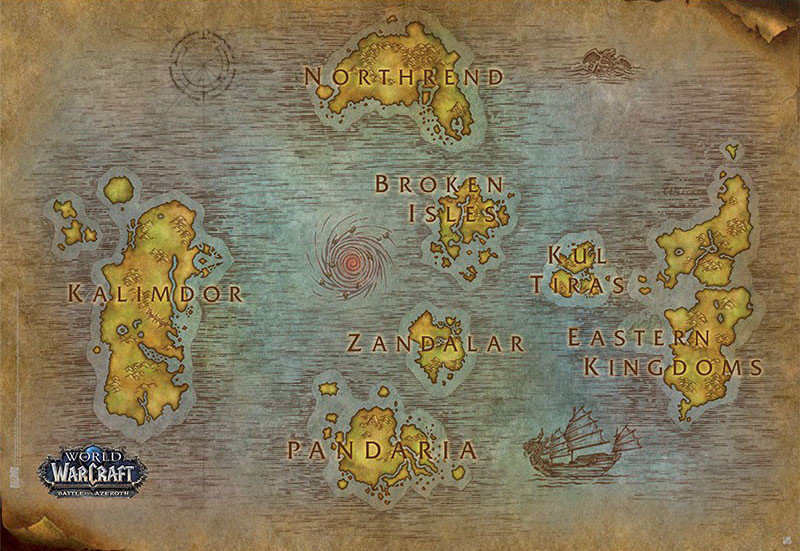
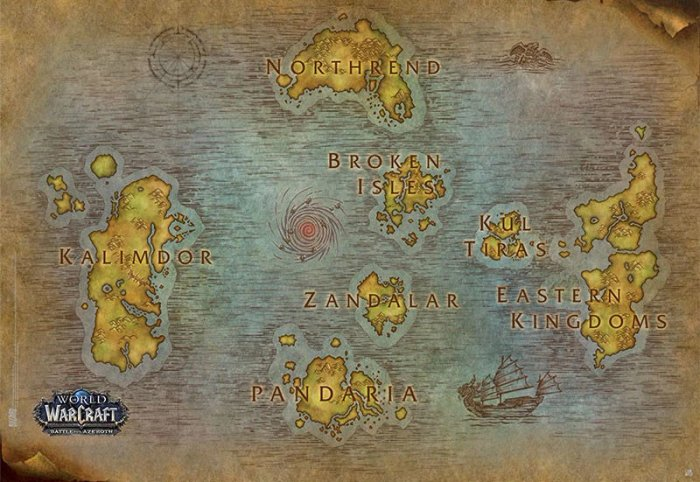
WIP optimisation images with vite.js and svelte

diff --git a/apps/lapikit.dev/scripts/optimize-images.js b/apps/lapikit.dev/scripts/optimize-images.js
@@ -1,0 +1,65 @@
+import sharp from 'sharp';
+import { readdir, mkdir } from 'fs/promises';
+import path from 'path';
+import { fileURLToPath } from 'url';
+
+const __dirname = path.dirname(fileURLToPath(import.meta.url));
+const inputDir = path.join(__dirname, '../static/images/original');
+const outputDir = path.join(__dirname, '../static/images');
+
+// Tailles pour mobile, desktop, retina
+const sizes = [
+	{ width: 320, suffix: '-mobile' },
+	{ width: 700, suffix: '-desktop' },
+	{ width: 1400, suffix: '-2x' }
+];
+
+async function optimizeImages() {
+	try {
+		// Créer le dossier de sortie s'il n'existe pas
+		await mkdir(outputDir, { recursive: true });
+
+		console.log('🖼  Optimisation des images...\n');
+
+		// Lire tous les fichiers du dossier original
+		const files = await readdir(inputDir);
+
+		for (const file of files) {
+			// Vérifier que c'est une image
+			if (!/\.(jpg|jpeg|png|webp)$/i.test(file)) continue;
+
+			const inputPath = path.join(inputDir, file);
+			const name = path.parse(file).name;
+
+			console.log(`📸 Processing: ${file}`);
+
+			// Générer toutes les tailles
+			for (const { width, suffix } of sizes) {
+				// WebP
+				const webpOutput = path.join(outputDir, `${name}${suffix}.webp`);
+				await sharp(inputPath)
+					.resize(width, null, { withoutEnlargement: true })
+					.webp({ quality: 85 })
+					.toFile(webpOutput);
+
+				console.log(`  ✅ ${name}${suffix}.webp (${width}px)`);
+			}
+
+			// Aussi créer une version standard (pour fallback)
+			const standardOutput = path.join(outputDir, `${name}.jpg`);
+			await sharp(inputPath)
+				.resize(700, null, { withoutEnlargement: true })
+				.jpeg({ quality: 85 })
+				.toFile(standardOutput);
+
+			console.log(`  ✅ ${name}.jpg (standard)\n`);
+		}
+
+		console.log('✨ Optimisation terminée !');
+	} catch (error) {
+		console.error('❌ Erreur:', error);
+		process.exit(1);
+	}
+}
+
+optimizeImages();

diff --git a/apps/lapikit.dev/src/lib/components/OptimizedImage.svelte b/apps/lapikit.dev/src/lib/components/OptimizedImage.svelte
@@ -1,0 +1,59 @@
+<script lang="ts">
+	interface Props {
+		src: string;
+		alt: string;
+		class?: string;
+	}
+
+	let { src, alt, class: className = '' }: Props = $props();
+
+	function getImagePaths(imagePath: string) {
+		const pathWithoutExt = imagePath.replace(/\.[^.]+$/, '');
+		
+		return {
+			mobile: `${pathWithoutExt}-mobile.webp`,
+			desktop: `${pathWithoutExt}-desktop.webp`,
+			retina: `${pathWithoutExt}-2x.webp`,
+			fallback: imagePath
+		};
+	}
+
+	const paths = getImagePaths(src);
+</script>
+
+<picture>
+	<!-- WebP -->
+	<source
+		type="image/webp"
+		srcset="{paths.mobile} 320w, {paths.desktop} 700w, {paths.retina} 1400w"
+		sizes="(max-width: 768px) 320px, 700px"
+	/>
+	
+	<!-- Fallback JPG/PNG -->
+	<img
+		src={paths.fallback}
+		alt={alt}
+		class={className}
+		loading="lazy"
+		decoding="async"
+		width="700"
+		height="500"
+	/>
+</picture>
+
+<style>
+	picture {
+		display: block;
+		width: 100%;
+	}
+	
+	img {
+		width: 100%;
+		height: auto;
+		display: block;
+	}
+</style>
+
+
+
+

diff --git a/apps/lapikit.dev/vite.config.ts b/apps/lapikit.dev/vite.config.ts
@@ -7,6 +7,7 @@ import tailwindcss from '@tailwindcss/vite';
 
 // compression plugin
 import { enhancedImages } from '@sveltejs/enhanced-img';
+import { imagetools } from 'vite-imagetools';
 
 import viteCompression from 'vite-plugin-compression';
 import browserslist from 'browserslist';
@@ -15,6 +16,15 @@ import { browserslistToTargets } from 'lightningcss';
 export default defineConfig({
 	plugins: [
 		enhancedImages(),
+		imagetools({
+			defaultDirectives: (url) => {
+				return new URLSearchParams({
+					format: 'webp;jpg',
+					w: '320;700;1400',
+					as: 'picture'
+				});
+			}
+		}),
 		tailwindcss(),
 		sveltekit(),
 		viteCompression({ algorithm: 'brotliCompress' })

diff --git a/apps/lapikit.dev/src/routes/blog/+page.svelte b/apps/lapikit.dev/src/routes/blog/+page.svelte
@@ -1,6 +1,7 @@
 <script lang="ts">
 	import type { PageData } from './$types';
 	import Breadcrumb from '$lib/components/Breadcrumb.svelte';
+	import OptimizedImage from '$lib/components/OptimizedImage.svelte';
 	import { PUBLIC_BASE_URL } from '$env/static/public';
 
 	let { data }: { data: PageData } = $props();
@@ -34,7 +35,7 @@
 			<article>
 				<a href="/blog/{post.slug}">
 					{#if post.image}
-						<img src={post.image} alt={post.title}/>
+						<OptimizedImage src={post.image} alt={post.title} />
 					{/if}
 					<div>
 						<h2>{post.title}</h2>

diff --git a/apps/lapikit.dev/src/routes/blog/city/+page.svelte b/apps/lapikit.dev/src/routes/blog/city/+page.svelte
@@ -1,6 +1,7 @@
 <script lang="ts">
 	import type { PageData } from './$types';
 	import Breadcrumb from '$lib/components/Breadcrumb.svelte';
+	import OptimizedImage from '$lib/components/OptimizedImage.svelte';
 
 	let { data }: { data: PageData } = $props();
 </script>
@@ -34,7 +35,7 @@
 				<article>
 					<a href="/blog/{post.slug}">
 						{#if post.image}
-							<img src={post.image} alt={post.title}/>
+							<OptimizedImage src={post.image} alt={post.title} />
 						{/if}
 						<div>
 							<h2>{post.title}</h2>

diff --git a/apps/lapikit.dev/src/routes/blog/[...slug]/+page.svelte b/apps/lapikit.dev/src/routes/blog/[...slug]/+page.svelte
@@ -1,6 +1,7 @@
 <script lang="ts">
 	import type { PageData } from './$types';
 	import Breadcrumb from '$lib/components/Breadcrumb.svelte';
+	import OptimizedImage from '$lib/components/OptimizedImage.svelte';
 
 	let { data }: { data: PageData } = $props();
 
@@ -86,7 +87,7 @@
 	</header>
 
 	{#if data.metadata.image}
-		<img src={data.metadata.image} alt={data.metadata.title} />
+		<OptimizedImage src={data.metadata.image} alt={data.metadata.title} class="featured-image" />
 	{/if}
 
 	<div>

diff --git a/apps/lapikit.dev/src/content/pages/city/pandarie.md b/apps/lapikit.dev/src/content/pages/city/pandarie.md
@@ -4,7 +4,7 @@ description: 'Discover Pandarie, a mystical land known for its serene landscapes
 date: '2026-01-02'
 author: 'Nycolaide'
 tags: ['city', 'travel', 'culture', 'pandarie', 'nature']
-image: '/images/pandarie.webp'
+image: '/images/pandarie.jpg'
 published: true
 ---
 

diff --git a/apps/lapikit.dev/src/content/pages/city/kalimdor.md b/apps/lapikit.dev/src/content/pages/city/kalimdor.md
@@ -4,7 +4,7 @@ description: 'Discover Kalimdor, a vast continent known for its diverse landscap
 date: '2026-01-01'
 author: 'Nycolaide'
 tags: ['city', 'travel', 'culture', 'kalimdor']
-image: '/images/kalimdor.webp'
+image: '/images/kalimdor.jpg'
 published: true
 ---
 
